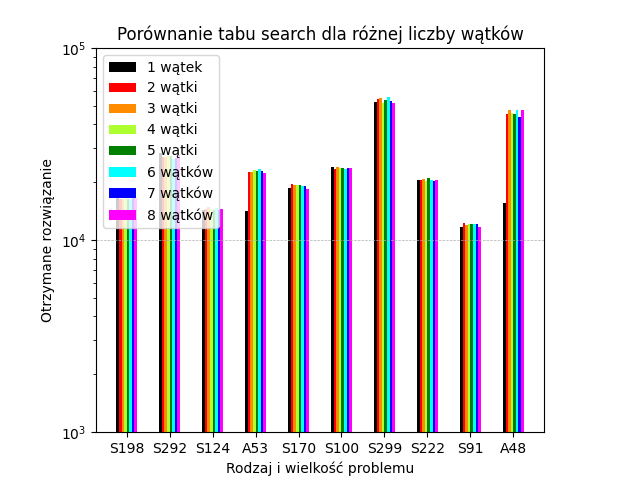
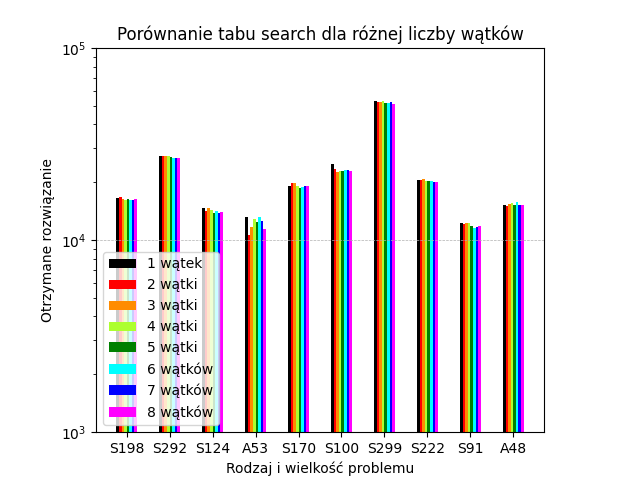
Plots

diff --git a/src/main/java/org/example/OldMain2.java b/src/main/java/org/example/OldMain2.java
@@ -1,0 +1,116 @@
+package org.example;
+
+import org.example.data.Result;
+import org.example.data.TspData;
+import org.example.drawer.Drawer;
+import org.example.tabooSearchAnalyses.AlgorithmsComparisonTS;
+
+import java.io.File;
+import java.io.IOException;
+import java.util.ArrayList;
+import java.util.List;
+
+public class OldMain2 {
+
+    public static FileLoader loader;
+    private static String folder = "dane" + File.separator;
+    private static String[] files = {folder + "d198.tsp", folder + "metro1.tsp", folder + "metro2.tsp",
+                                    folder + "ft53.atsp", folder + "metro3.tsp", folder + "kroB100.tsp",
+                                    folder + "pr299.tsp", folder + "metro4.tsp", folder + "metro8.tsp",
+                                    folder + "ry48p.atsp"};
+    public static String[] names = {"S198", "S292", "S124", "A53", "S170", "S100", "S299", "S222", "S91", "A48"};
+    public static int[] best = {15780, 48912, 50801, 6905, 1473, 22141, 48191, 1326, 2720, 14422};
+
+    /**
+     *
+     * @param args array with 1 element which is filename
+     */
+    public static void main(String[] args) throws IOException {
+//        if(args.length != 1) {
+//            System.out.println("Argument 1 must be filename!");
+//            return;
+//        }
+//        String file = files[6];
+//
+//        loaderTest(file);
+//
+//        TspData data = loader.getTspData();
+//        NearestNeighbour nearestNeighbour = new NearestNeighbour(data, NearestNeighbour.Strategy.UPGRADED_MULTI);
+//        nearestNeighbour.setThreadCount(6);
+//        Result startingRes = nearestNeighbour.calculate();
+//        draw(startingRes);
+
+//        TabooSearch2 ts = new TabooSearch2(data, startingRes, true, new SwapTabooList(7, data.getSize()), new Swap(), new IterationsStop(100), null, 1);
+//        ts.setAsync(6);
+//        Result endRes = ts.calculate();
+//        System.out.println("At the beginning: " + startingRes.calcObjectiveFunction());
+//        System.out.println("At the end: " + endRes.calcObjectiveFunction());
+
+        FileLoader fileLoader = new FileLoader(files[2]);
+        fileLoader.load();
+        List<TspData> list = new ArrayList<>();
+        for(int i = 0; i < files.length; i++) {
+            fileLoader.setFileName(files[i]);
+            fileLoader.load();
+            TspData data = fileLoader.getTspData();
+            data.setName(names[i]);
+            list.add(data);
+        }
+//        fileLoader.setFileName(files[8]);
+//        fileLoader.load();
+//        TspData d = fileLoader.getTspData();
+//        if(d instanceof EucTspData) {
+//            Result res = (new TwoOpt(d)).calculate();
+//            draw(res);
+//        }
+//        AlgorithmsComparisonTS.compareOperations("operations.csv", list);
+//        AlgorithmsComparisonTS.compareTabooListSize("tabooListSize.csv", list);
+//        AlgorithmsComparisonTS.compareAspiration("aspiration.csv", list);
+//        AlgorithmsComparisonTS.compareNeighbourhood("neighbourhood.csv", list);
+//        AlgorithmsComparisonTS.compareAsynchronous("asynchronous.csv", list);
+//        AlgorithmsComparisonTS.compareStart("start.csv", list);
+//        AlgorithmsComparisonTS.compareLongTermList("longTermList.csv", list, false);
+//        AlgorithmsComparisonTS.compareLongTermList("longTermListKick.csv", list, true);
+        System.out.println(list.size());
+        AlgorithmsComparisonTS.compareExploreFunctions("exploreFunctions.csv", list, 5);
+        AlgorithmsComparisonTS.compareExploreFunctions("exploreFunctions15.csv", list, 15);
+//        AlgorithmsComparisonTS.compareTime("progress100.csv", list, 100);
+//        AlgorithmsComparisonTS.compareProgress("progress500.csv", list, 500);
+//        AlgorithmsComparisonTS.compareTime("progress1000.csv", list, 1000);
+//        fileLoader.setFileName(files[0]);
+//        fileLoader.load();
+//        TspData data = fileLoader.getTspData();
+//        AlgorithmsComparisonTS.compareTabooListTime("tabooListTime198.csv", data);
+//        fileLoader.setFileName(files[8]);
+//        fileLoader.load();
+//        data = fileLoader.getTspData();
+//        AlgorithmsComparisonTS.compareTabooListTime("tabooListTime91.csv", data);
+//        fileLoader.setFileName(files[9]);
+//        fileLoader.load();
+//        TspData data = fileLoader.getTspData();
+//        AlgorithmsComparisonTS.compareTabooListTime("tabooListTime48.csv", data);
+
+
+//        FileLoader fileLoader = new FileLoader("metro8.tsp");
+//        fileLoader.load();
+//        TspData tspData = fileLoader.getTspData();
+//        TwoOpt twoOpt = new TwoOpt(tspData);
+//        Result res = twoOpt.calculate();
+//
+//        Drawer drawer = new Drawer(res.problem.getName());
+//        drawer.showResult(res);
+
+    }
+
+    private static void draw(Result res) {
+        Drawer drawer = new Drawer(res.problem.getName());
+        drawer.showResult(res);
+    }
+
+    public static void loaderTest(String filename){
+        loader = new FileLoader(filename);
+        loader.load();
+        System.out.println(loader.getTspData().toString());
+    }
+
+}

diff --git a/src/main/java/org/example/Main.java b/src/main/java/org/example/Main.java
@@ -28,79 +28,11 @@ public class Main {
      * @param args array with 1 element which is filename
      */
     public static void main(String[] args) throws IOException {
-//        if(args.length != 1) {
-//            System.out.println("Argument 1 must be filename!");
-//            return;
-//        }
-//        String file = files[6];
-//
-//        loaderTest(file);
-//
-//        TspData data = loader.getTspData();
-//        NearestNeighbour nearestNeighbour = new NearestNeighbour(data, NearestNeighbour.Strategy.UPGRADED_MULTI);
-//        nearestNeighbour.setThreadCount(6);
-//        Result startingRes = nearestNeighbour.calculate();
-//        draw(startingRes);
-
-//        TabooSearch2 ts = new TabooSearch2(data, startingRes, true, new SwapTabooList(7, data.getSize()), new Swap(), new IterationsStop(100), null, 1);
-//        ts.setAsync(6);
-//        Result endRes = ts.calculate();
-//        System.out.println("At the beginning: " + startingRes.calcObjectiveFunction());
-//        System.out.println("At the end: " + endRes.calcObjectiveFunction());
 
         FileLoader fileLoader = new FileLoader(files[2]);
         fileLoader.load();
-        List<TspData> list = new ArrayList<>();
-        for(int i = 0; i < files.length; i++) {
-            fileLoader.setFileName(files[i]);
-            fileLoader.load();
-            TspData data = fileLoader.getTspData();
-            data.setName(names[i]);
-            list.add(data);
-        }
-//        fileLoader.setFileName(files[8]);
-//        fileLoader.load();
-//        TspData d = fileLoader.getTspData();
-//        if(d instanceof EucTspData) {
-//            Result res = (new TwoOpt(d)).calculate();
-//            draw(res);
-//        }
-//        AlgorithmsComparisonTS.compareOperations("operations.csv", list);
-//        AlgorithmsComparisonTS.compareTabooListSize("tabooListSize.csv", list);
-//        AlgorithmsComparisonTS.compareAspiration("aspiration.csv", list);
-        AlgorithmsComparisonTS.compareNeighbourhood("neighbourhood.csv", list);
-//        AlgorithmsComparisonTS.compareAsynchronous("asynchronous.csv", list);
-//        AlgorithmsComparisonTS.compareStart("start.csv", list);
-//        AlgorithmsComparisonTS.compareLongTermList("longTermList.csv", list, false);
-//        AlgorithmsComparisonTS.compareLongTermList("longTermListKick.csv", list, true);
-        System.out.println(list.size());
-//        AlgorithmsComparisonTS.compareExploreFunctions("exploreFunctions.csv", list, 5);
-//        AlgorithmsComparisonTS.compareExploreFunctions("exploreFunctions15.csv", list, 15);
-//        AlgorithmsComparisonTS.compareTime("progress100.csv", list, 100);
-//        AlgorithmsComparisonTS.compareProgress("progress500.csv", list, 500);
-//        AlgorithmsComparisonTS.compareTime("progress1000.csv", list, 1000);
-//        fileLoader.setFileName(files[0]);
-//        fileLoader.load();
-//        TspData data = fileLoader.getTspData();
-//        AlgorithmsComparisonTS.compareTabooListTime("tabooListTime198.csv", data);
-//        fileLoader.setFileName(files[8]);
-//        fileLoader.load();
-//        data = fileLoader.getTspData();
-//        AlgorithmsComparisonTS.compareTabooListTime("tabooListTime91.csv", data);
-//        fileLoader.setFileName(files[9]);
-//        fileLoader.load();
-//        TspData data = fileLoader.getTspData();
-//        AlgorithmsComparisonTS.compareTabooListTime("tabooListTime48.csv", data);
-
-
-//        FileLoader fileLoader = new FileLoader("metro8.tsp");
-//        fileLoader.load();
-//        TspData tspData = fileLoader.getTspData();
-//        TwoOpt twoOpt = new TwoOpt(tspData);
-//        Result res = twoOpt.calculate();
-//
-//        Drawer drawer = new Drawer(res.problem.getName());
-//        drawer.showResult(res);
+        TspData data = fileLoader.getTspData();
+        data.setName(names[2]);
 
     }
 

diff --git a/src/main/java/org/example/algorithm/genetic/crossovers/BetterPartialCrossover.java b/src/main/java/org/example/algorithm/genetic/crossovers/BetterPartialCrossover.java
@@ -6,7 +6,7 @@ import java.util.ArrayList;
 import java.util.List;
 import java.util.concurrent.ThreadLocalRandom;
 
-public class PartialCrossover implements Crossover {
+public class BetterPartialCrossover implements Crossover {
 
 	int from, to;
 
@@ -17,7 +17,7 @@ public class PartialCrossover implements Crossover {
 	 * @param from point from genetic result will be transformed
 	 * @param to point to genetic result will be transformed
 	 */
-	public PartialCrossover(int from, int to) {
+	public BetterPartialCrossover(int from, int to) {
 		this.from = from;
 		this.to = to;
 	}
@@ -38,7 +38,7 @@ public class PartialCrossover implements Crossover {
 	}
 
 	private GeneticResult getNewGeneticResult(GeneticResult result1, GeneticResult result2) {
-		// TODO CHECK
+		// TODO EDIT
 		GeneticResult newRes = result1.clone();
 		int am[] = new int[newRes.getProblemSize()];
 		for(int i = from; i <= to; i++) {

diff --git a/src/main/java/org/example/tabooSearchAnalyses/AlgorithmsComparisonTS.java b/src/main/java/org/example/tabooSearchAnalyses/AlgorithmsComparisonTS.java
@@ -344,13 +344,13 @@ public class AlgorithmsComparisonTS {
 				if(tests[j] == 0) exploreFunction = null;
 				TabooSearch2 taboo = new TabooSearch2(tspData, res, false,
 						new BasicTabooList(10), new Invert(),
-						new IterationsStop(2000), null, exploreFunction, 1);
+						new IterationsStop(1000), null, exploreFunction, 1);
 				ts[i][j] = taboo.calculate().calcObjectiveFunction();
 			}
 			ExploreFunction exploreFunction = new Kick(n/4, kick_changes);
 			TabooSearch2 taboo = new TabooSearch2(tspData, res, false,
 					new BasicTabooList(10), new Invert(),
-					new IterationsStop(2000), null, exploreFunction, 1);
+					new IterationsStop(1000), null, exploreFunction, 1);
 			ts[i][tests.length] = taboo.calculate().calcObjectiveFunction();
 			i++;
 		}

diff --git a/src/main/java/org/example/algorithm/genetic/GeneticResult.java b/src/main/java/org/example/algorithm/genetic/GeneticResult.java
@@ -19,9 +19,20 @@ public class GeneticResult extends Result {
 		return chanceToCross;
 	}
 
+	public int getProblemSize() {
+		return problem.getSize();
+	}
+
 	@Override
 	public GeneticResult clone() {
-		return null;
+		GeneticResult newResult = new GeneticResult(problem);
+		for(int i = 0; i < problem.getSize(); i++) {
+			newResult.way[i] = way[i];
+		}
+		newResult.currInd = currInd;
+		newResult.objFuncResult = objFuncResult;
+		newResult.setChanceToCross(chanceToCross);
+		return newResult;
 	}
 
 	public static GeneticResult getFromResult(Result result) {

diff --git a/src/main/java/org/example/algorithm/genetic/crossovers/OrderCrossover.java b/src/main/java/org/example/algorithm/genetic/crossovers/OrderCrossover.java
@@ -1,0 +1,19 @@
+package org.example.algorithm.genetic.crossovers;
+
+import org.example.algorithm.genetic.GeneticResult;
+
+import java.util.List;
+
+public class OrderCrossover implements Crossover {
+
+	int randomElements = 5;
+
+	public void setRandomElements(int randomElements) {
+		this.randomElements = randomElements;
+	}
+
+	@Override
+	public List<GeneticResult> getNewPopulation(List<GeneticResult> oldPopulation) {
+		return null;
+	}
+}

diff --git a/wykresy2/asynchronous/wykres.py b/wykresy2/asynchronous/wykres.py
@@ -26,7 +26,7 @@ def draw():
     for i in range(5, 8):
         plt.bar(r1 + (-2.5 + i) * l, asyn[i], color=color[i], width=l, label=str(i+1) + ' wątków')
     plt.xticks([2*r + l for r in range(10)], names)
-    plt.legend(loc='upper left')
+    plt.legend(loc='lower left')
     plt.xlabel('Rodzaj i wielkość problemu')
     plt.ylabel('Otrzymane rozwiązanie')
     plt.subplots_adjust(left=0.15, bottom=0.1, right=0.85, top=0.9)

diff --git a/src/main/java/org/example/RunClass.java b/src/main/java/org/example/RunClass.java
@@ -9,7 +9,6 @@ import org.example.algorithm.taboo.Neighbourhoods.Moves.SwapMove;
 import org.example.algorithm.taboo.TabooSearch;
 import org.example.algorithm.TwoOpt;
 import org.example.algorithm.taboo.TabooSearch2;
-import org.example.algorithm.taboo.stopFunctions.IterationsStop;
 import org.example.algorithm.taboo.tabooList.BasicTabooList;
 import org.example.data.Result;
 import org.example.data.TspData;
